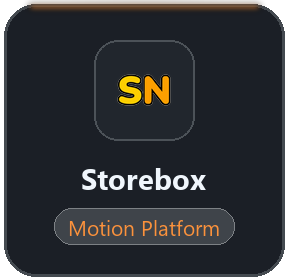
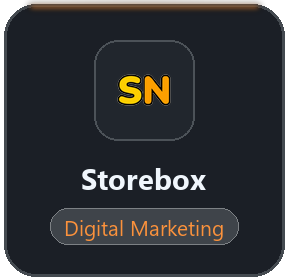
fix(storebox): update category label to Digital Marketing

Changed region(s): [[0.1562, 0.7429, 0.8438, 0.8857]]

diff --git a/scripts/generate_bento_cards.py b/scripts/generate_bento_cards.py
@@ -53,7 +53,7 @@ PROJECTS = [
     {
         "id": "storebox",
         "name": "Storebox",
-        "category": "Motion Platform",
+        "category": "Digital Marketing",
         "accent": (251, 146, 60),   # #FB923C Orange
         "logo_path": "d:/PROJECTS/mizan989/assets/projects/storebox.png",
         "url": "https://github.com/mizan989/Storebox_clone"
